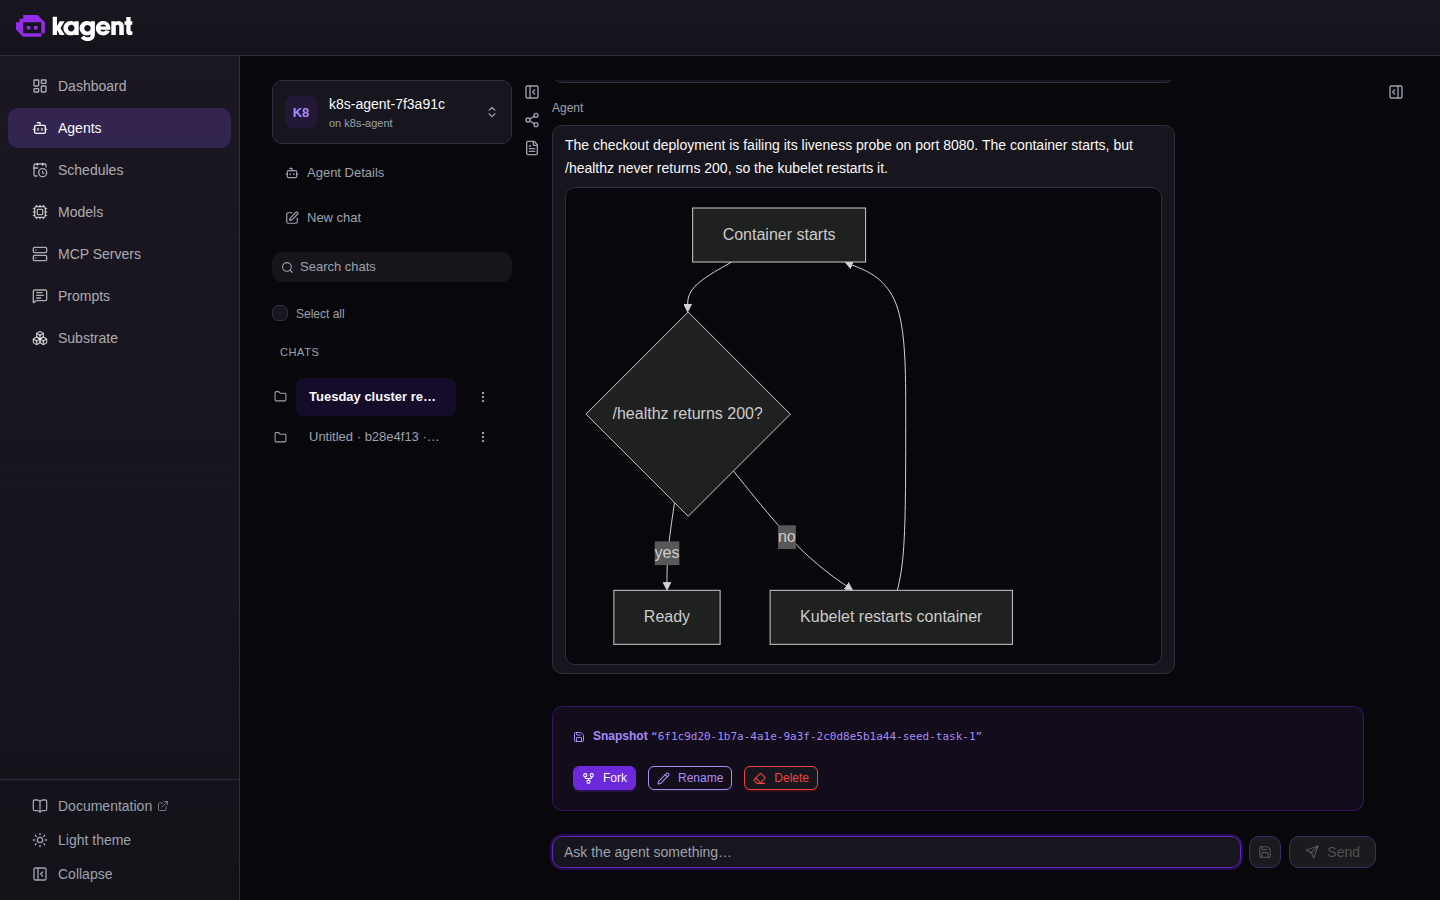
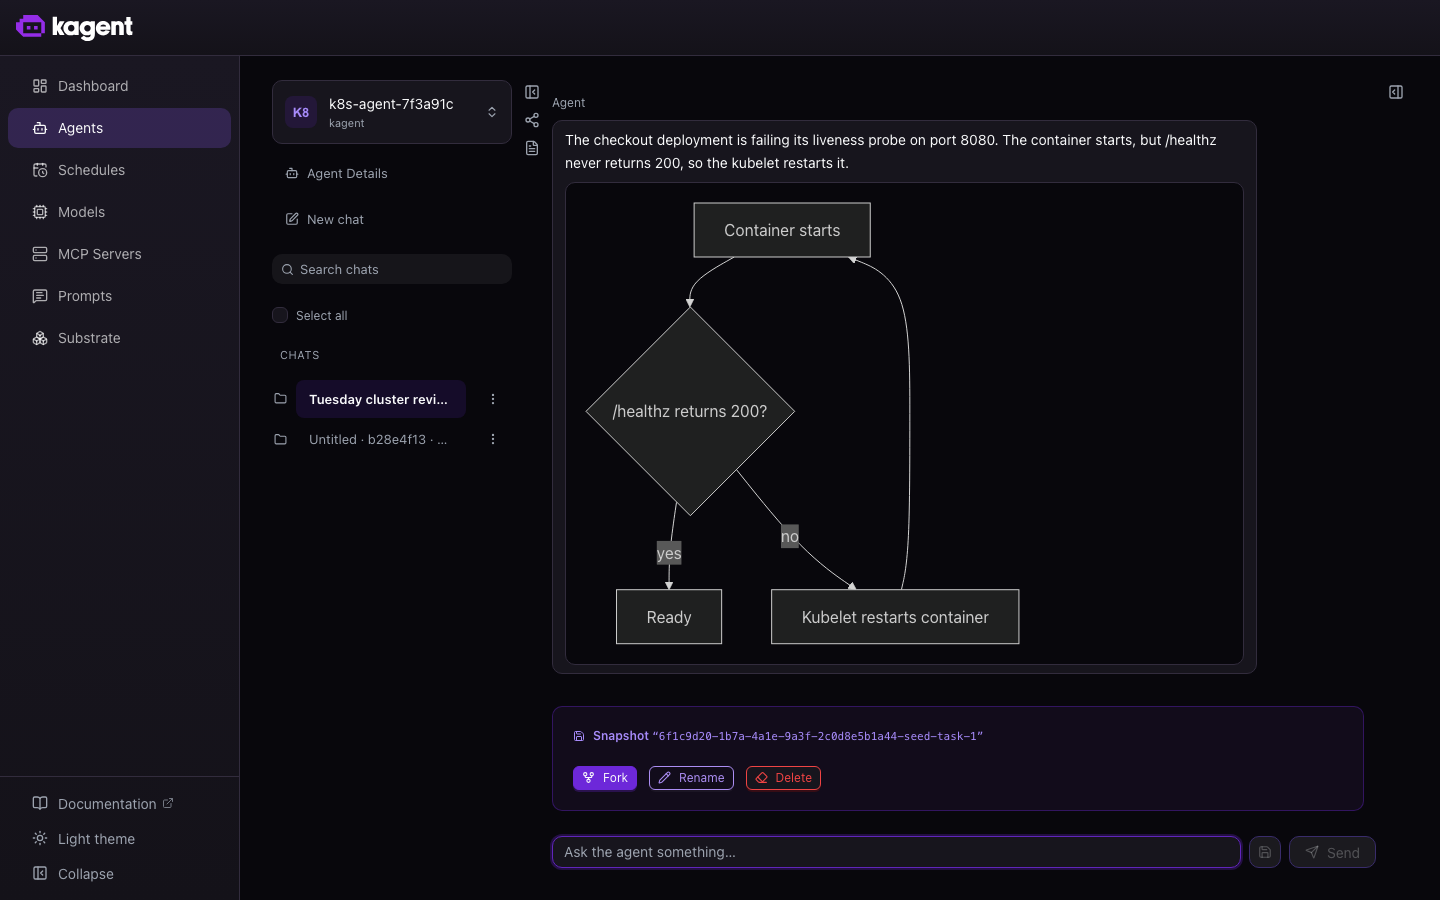
playwright run

diff --git a/docs-site/playwright/tests/chat.spec.ts b/docs-site/playwright/tests/chat.spec.ts
@@ -16,10 +16,10 @@ import { test, expect, gotoUI, pinClock, settle } from '../fixtures/test';
  *
  * Run it against a dev server from a kagent checkout, NOT against a cluster:
  *
- *   cd <kagent>/ui && VITE_API_MODE=mock yarn dev --port 8101
+ *   cd <kagent>/ui && KAGENT_UI_VITE_API_MODE=mock yarn dev --port 8101
  *   UI_BASE_URL=http://localhost:8101 npm run update:chat
  *
- * `VITE_API_MODE` is a build-time pin and the released UI image ships no mock service
+ * `KAGENT_UI_VITE_API_MODE` is a build-time pin and the released UI image ships no mock service
  * worker (ui/src/api/config.ts), so this cannot be captured from the published image —
  * it needs the source checkout.
  *

diff --git a/docs-site/playwright/README.md b/docs-site/playwright/README.md
@@ -36,7 +36,7 @@ the wrong one produces either a fake screenshot or a permanently red test.
 | | **Live cluster** | **Mock dev server** |
 | --- | --- | --- |
 | Spec | `tests/launch-ui.spec.ts` | `tests/chat.spec.ts` |
-| What serves the UI | `kubectl port-forward svc/kagent-ui` | `VITE_API_MODE=mock vite` from a kagent checkout |
+| What serves the UI | `kubectl port-forward svc/kagent-ui` | `KAGENT_UI_VITE_API_MODE=mock vite` from a kagent checkout |
 | Shows | real resources from a real install | the UI's own fixtures |
 | Use for | anything a reader reaches by following the install guide | anything a real backend makes nondeterministic |
 
@@ -52,7 +52,7 @@ docs need.
 
 Two constraints on the mock path:
 
-- **It needs a kagent source checkout**, not the released image. `VITE_API_MODE` is a
+- **It needs a kagent source checkout**, not the released image. `KAGENT_UI_VITE_API_MODE` is a
   build-time pin and the release image deliberately ships no mock service worker
   (`ui/src/api/config.ts`), so a built image cannot honour it however it is set.
 - **A mock-backed spec must be unable to run against a cluster by accident.** `chat.spec.ts`
@@ -126,7 +126,7 @@ Use a real key only for a capture that shows an agent doing something.
 ```sh
 cd <kagent checkout>/ui
 yarn install
-VITE_API_MODE=mock ./node_modules/.bin/vite --port 8101 &
+KAGENT_UI_VITE_API_MODE=mock ./node_modules/.bin/vite --port 8101 &
 
 cd <website>/docs-site/playwright
 UI_BASE_URL=http://localhost:8101 npm run update:chat
@@ -229,35 +229,47 @@ Screenshots are pixel-compared, so captures must be stable across runs.
 
 | Capture | Source | Date |
 | --- | --- | --- |
-| `kagent-ui-chat` | kagent UI mock backend, `vite` at kagent tag `v1.0.0-alpha2` (`373b56be`) | 2026-09-15, re-verified 2026-09-23 |
-| `kagent-ui-dashboard` / `-agents` | **published charts** kagent `1.0.0-alpha2` + Agent Substrate `0.2.0-beta5`, kind 1.37.0 | 2026-09-15, re-verified 2026-09-23 |
-| `kagent-ui-substrate` | **published charts** kagent `1.0.0-alpha2` + Agent Substrate `0.2.0-beta5`, kind 1.37.0 | 2026-09-23 |
+| `kagent-ui-chat` | kagent UI mock backend, `vite` at kagent tag `v1.0.0-alpha7` | 2026-10-01 |
+| `kagent-ui-dashboard` | **published charts** kagent `1.0.0-alpha2` + Agent Substrate `0.2.0-beta5`, kind 1.37.0 | 2026-09-15, re-verified 2026-09-23 and 2026-10-01 |
+| `kagent-ui-agents` / `-substrate` | **published charts** kagent `1.0.0-alpha7` + Agent Substrate `0.3.0-alpha3`, kind 1.37.0 | 2026-10-01 |
 
-**The cluster captures now come from the published chart**, which closes the caveat these
-notes carried since 2026-09-15. A fresh `kagent-shots` cluster installed exactly what
-`versions/kagent.md` and `versions/agent-substrate.md` pin, and the capture ran against that.
+> The 2026-10-01 set was captured on macOS, so CI's first Linux run after it merges rewrites
+> all six. That re-render carries no content change — see **Baselines and platforms**.
 
-**`-dashboard` and `-agents` were re-verified, not rewritten.** They still match byte-for-byte
-against the published chart, so those two surfaces did not move between the 2026-09-15 source
-build and `1.0.0-alpha2`, and the old images were honest after all. Only `-substrate` changed
-(see below), so only that pair carries the new date.
+**`-dashboard` was re-verified, not rewritten.** It passed unchanged against `1.0.0-alpha7`,
+so the landing view did not move across five releases.
 
-**What moved on the Substrate page at `1.0.0-alpha2`** — the page grew 1247px to 1308px, and
-these are the changes a reader sees:
+**What moved at `1.0.0-alpha7`.** The Agents page carries the 1.0 Agent model, which is the
+change these captures exist to show:
 
-- the single **Scope** selector became two filters, **Kubernetes namespace** and **ATE atespace**;
-- the **Actor templates** table dropped its **Harness** column;
-- the **Workers** table replaced its **Actor** column (which read `idle`) with **IP**;
-- the Actors and Workers panels lost their per-panel search boxes, gained `N on this page`
-  counts and a `read just now` line, and the empty state changed from
-  `ate-api reported no actors in this scope` to `No actors on this page.`;
-- the page description dropped the internal name `ate-api` in favour of `Substrate`.
+- a **New Agent** button joins **New Template** and **New Harness**, because the Agents tab
+  now authors the `Agent` custom resource rather than deriving the list;
+- the **Overview** card's `Agent` box lost its `(derived)` marker and reads
+  `One template and one harness, each shared or inline`;
+- the agents table replaced its **Runs on** and **Revision** columns with **Template**,
+  **Harness** and **Status**;
+- the empty state grew from `No agents yet.` to
+  `No agents yet. Create one to pair a template with a harness.`, and the sentence
+  `The agents list is populated automatically from the available template and harness
+  configurations.` is gone.
 
-Three of those falsified prose in `observability/launch-ui.md`, which was corrected in the
-same change. **`read just now` is a new volatile string** — it has held across re-captures so
-far, but it is the thing to suspect first if this capture ever starts flapping.
+**The Substrate page did not move structurally.** Its only content change is the Ateom image
+in the worker pool row, `v0.2.0-beta5` to `v0.3.0-alpha3`. The rest of its diff is the pod
+name, the pod IP, the `read N ago` line, and the macOS render.
 
-The chat capture needs no such caveat going forward: it will always come from source,
+**The chat surface moved by one string.** The agent switcher's subtitle reads the namespace,
+`kagent`, where it used to read the agent name, `on k8s-agent`.
+
+**`AgentInstance` is still the UI's word for a Session.** The API renamed it — the dev server
+proxies `SessionService/ListSessions` — but the Agents page Overview card and the chat surface
+still say `AgentInstance`. `observability/launch-ui.md` carries a note mapping the two, the
+same way it already maps the UI's `Snapshot` label onto a checkpoint. Drop that note when the
+UI catches up.
+
+**`read just now` is a volatile string** — it has held across re-captures so far, but it is
+the thing to suspect first if this capture ever starts flapping.
+
+The chat capture needs no source caveat going forward: it will always come from source,
 because the released image ships no mock service worker.
 
 ## Design decisions worth not reversing by accident

diff --git a/docs-site/content/kagent/1.x/observability/launch-ui.md b/docs-site/content/kagent/1.x/observability/launch-ui.md
@@ -87,6 +87,9 @@ Start at the **Agents** page to review your agents and the resources behind them
 
 The **Agents** tab authors the `Agent` custom resource directly: create one to pair a template with a harness, edit one to change either side, and delete one to retire the pairing. Deleting an Agent leaves its Sessions in place, along with the AgentTemplate and Harness that it named. For the same work from the command line, see [Create your first agent]({{< link path="get-started/your-first-agent" >}}).
 
+> [!NOTE]
+> The **Overview** card labels a conversation an `AgentInstance`. The API calls the same object a {{< gloss "Session" >}}Session{{< /gloss >}}, which is the name the CLI, the gRPC services, and the rest of this documentation use. Read `AgentInstance` on this card as `Session`.
+
 ## Read a conversation
 
 Opening an agent and sending a message creates a {{< gloss "Session" >}}Session{{< /gloss >}}, which is one conversation scheduled onto a Substrate {{< gloss "Actor" >}}Actor{{< /gloss >}}. The conversation view shows the transcript, the tool calls the agent made along the way, and the controls that branch the conversation.

diff --git a/docs-site/content/kagent/1.x/setup/installation.md b/docs-site/content/kagent/1.x/setup/installation.md
@@ -221,8 +221,6 @@ The kagent chart connects the controller to Agent Substrate and creates a Worker
        enabled: true
        ateApiEndpoint: dns:///api.ate-system.svc:443
        atenetRouterURL: http://atenet-router.ate-system.svc:80
-       defaultWorkerPool:
-         name: kagent-default
    substrateWorkerPool:
      create: true
      replicas: 1
